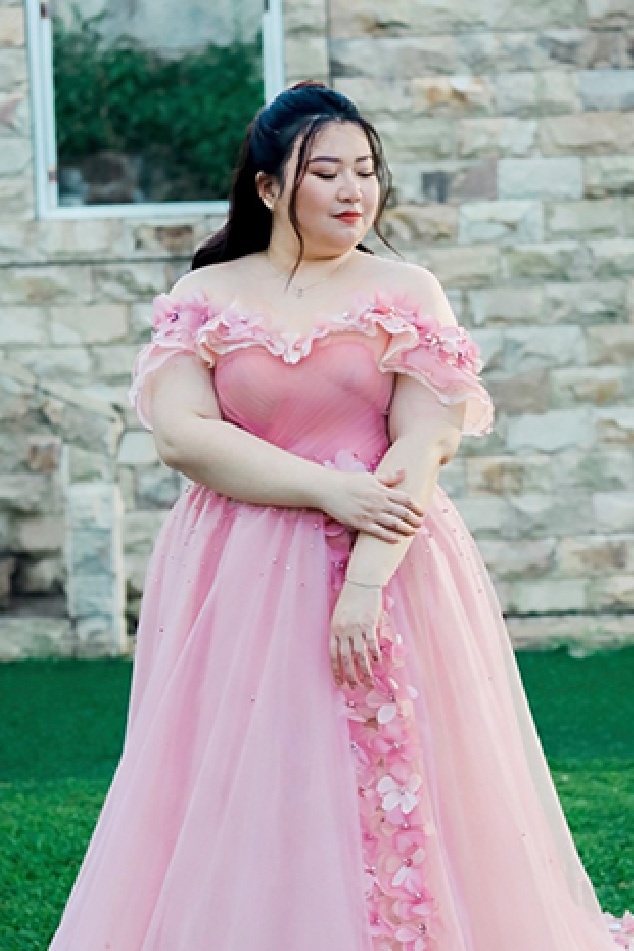
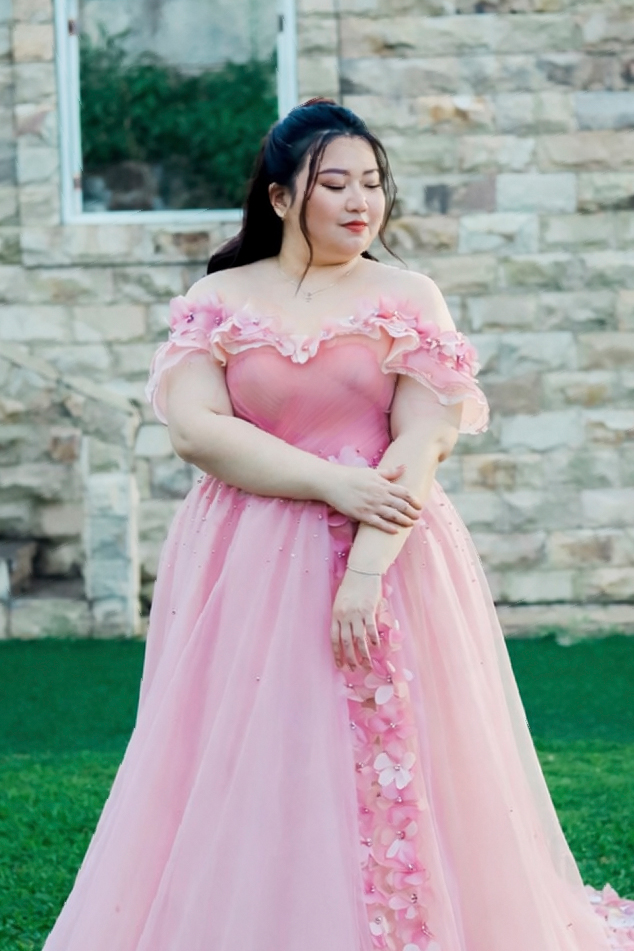
update

diff --git a/index.html b/index.html
@@ -98,7 +98,7 @@
                     <div class="row">
                         <div class="col-12 position-relative text-center">
                             <div class="photo-wrapper slide-in-right-scroll">
-                                <img src="img/Bride-6.jpg" alt="Bride" loading="lazy" class="card-photo shadow">
+                                <img src="img/Bride-6-1.jpg" alt="Bride" loading="lazy" class="card-photo shadow">
                                 <div class="bride-text">
                                     <h3>Rebecca Laurensia Diva S.Psi</h3>
                                     <p>
@@ -341,7 +341,7 @@
                 <div class="col-md-6">
                     <img src="img/logo-bca.png" class="img-fluid slide-in-bottom-scroll">
                     <h4 class="slide-in-bottom-scroll">
-                        1234567890
+                        008-427-5804
                     </h4>
                     <h4 class="slide-in-bottom-scroll">
                         Yosef Oktavianus & Laurensia Diva
